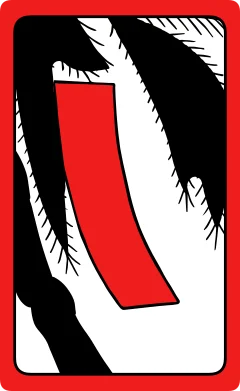
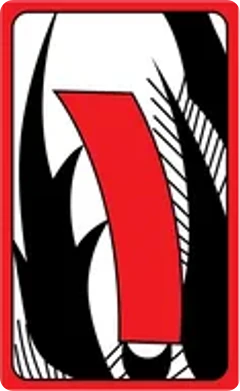
3·11·12월 카드를 제공받은 이미지로 교체: 48장 모두 제공 이미지로 통일, 출처 표기 정리
Claude-Session: https://claude.ai/code/session_01SkuqTjeNpSE6AdjrgMsGJu

diff --git a/src/App.jsx b/src/App.jsx
@@ -89,10 +89,8 @@ function Menu({ onStart }) {
         <p>• 모든 카드를 가져갔는데 {WIN_THRESHOLD}점 이상이 없으면 나가리(무승부)</p>
       </div>
       <p className="credits">
-        카드 그림: Spenĉjo,{' '}
-        <a href="https://commons.wikimedia.org/wiki/Category:SVG_Hwatu" target="_blank" rel="noreferrer">Wikimedia Commons</a>,{' '}
-        <a href="https://creativecommons.org/licenses/by-sa/4.0/deed.ko" target="_blank" rel="noreferrer">CC BY-SA 4.0</a>
-        {' '}(크기 변환 및 WebP로 변환)
+        카드 그림 출처:{' '}
+        <a href="https://namu.wiki/w/%ED%99%94%ED%88%AC/%ED%8C%A8" target="_blank" rel="noreferrer">나무위키 「화투/패」</a>
       </p>
     </div>
   );

diff --git a/src/assets/cards/CREDITS.md b/src/assets/cards/CREDITS.md
@@ -1,65 +1,59 @@
-# 카드 이미지 출처 및 라이선스
+# 카드 이미지 출처
 
-이 폴더의 카드 이미지는 Wikimedia Commons의 한국식 화투 SVG 세트를 변환한 것입니다.
+48장 모두 프로젝트 소유자가 나무위키 「화투/패」 문서(https://namu.wiki/w/%ED%99%94%ED%88%AC/%ED%8C%A8)에서 가져온 월별 합성 이미지를 카드 한 장씩 잘라 사용한 것입니다.
 
-- 작가: [Spenĉjo](https://commons.wikimedia.org/wiki/User:Spen%C4%89jo)
-- 원본: https://commons.wikimedia.org/wiki/Category:SVG_Hwatu
-- 라이선스: [CC BY-SA 4.0](https://creativecommons.org/licenses/by-sa/4.0/)
-- 변경 사항: 가로 240px 크기의 WebP로 변환(래스터화)했습니다. 일부 카드(아래 표시)는 원본 SVG를 받지 못해 같은 세트의 이미지에서 잘라 사용했습니다.
-- 이 이미지들은 원본과 같은 CC BY-SA 4.0 조건으로 제공됩니다. 코드와는 별개의 저작물입니다.
+- 변경 사항: 합성 이미지에서 카드를 잘라 모서리를 둥글게 처리하고, 가로 240px의 WebP로 변환했습니다.
+- 원 출처와 라이선스는 확인되지 않았습니다. 나무위키 문서 본문은 CC BY-NC-SA 2.0 KR이지만, 이미지는 파일별 라이선스를 따릅니다.
+- 그림은 Wikimedia Commons의 한국식 화투 세트(Spenĉjo, CC BY-SA 4.0, https://commons.wikimedia.org/wiki/Category:SVG_Hwatu)와 같은 작품으로 보이나 확정된 것은 아닙니다.
+- **공개 배포나 상업적 이용 전에 각 이미지의 파일 정보에서 출처와 라이선스를 확인하고, 필요하면 이 문서와 메뉴 화면의 표기를 갱신하세요.**
 
-
-> 알림: 아래 표에서 "(제공 이미지)"로 표시한 카드는 프로젝트 소유자가 나무위키 「화투/패」 문서(https://namu.wiki/w/%ED%99%94%ED%88%AC/%ED%8C%A8)에서 가져온 합성 이미지를 잘라낸 것입니다.
-> 그림은 위의 Wikimedia Commons 세트와 같은 작품으로 보이지만, 나무위키 이미지 각각의 원 출처와 라이선스는 확인되지 않았습니다.
-> (나무위키 문서 본문은 CC BY-NC-SA 2.0 KR이며, 이미지는 파일별 라이선스를 따릅니다.) 공개 배포 전에 각 이미지의 파일 정보를 확인해 이 문서를 갱신하세요.
-
-| 파일 | 원본 | 비고 |
-|---|---|---|
-| January_Hikari.webp | (제공 이미지) | 프로젝트 소유자가 제공한 이미지에서 잘라냄 |
-| January_Tanzaku.webp | (제공 이미지) | 프로젝트 소유자가 제공한 이미지에서 잘라냄 |
-| January_Kasu_1.webp | (제공 이미지) | 프로젝트 소유자가 제공한 이미지에서 잘라냄 |
-| January_Kasu_2.webp | (제공 이미지) | 프로젝트 소유자가 제공한 이미지에서 잘라냄 |
-| February_Tane.webp | (제공 이미지) | 프로젝트 소유자가 제공한 이미지에서 잘라냄 |
-| February_Tanzaku.webp | (제공 이미지) | 프로젝트 소유자가 제공한 이미지에서 잘라냄 |
-| February_Kasu_1.webp | (제공 이미지) | 프로젝트 소유자가 제공한 이미지에서 잘라냄 |
-| February_Kasu_2.webp | (제공 이미지) | 프로젝트 소유자가 제공한 이미지에서 잘라냄 |
-| March_Hikari.webp | https://commons.wikimedia.org/wiki/File:Hwatu_March_Hikari.svg | SVG 변환 |
-| March_Tanzaku.webp | https://commons.wikimedia.org/wiki/File:Hwatu_March_Tanzaku.svg | SVG 변환 |
-| March_Kasu_1.webp | https://commons.wikimedia.org/wiki/File:Hwatu_March_Kasu_1.svg | SVG 변환 |
-| March_Kasu_2.webp | https://commons.wikimedia.org/wiki/File:Hwatu_March_Kasu_2.svg | SVG 변환 |
-| April_Tane.webp | (제공 이미지) | 프로젝트 소유자가 제공한 이미지에서 잘라냄 |
-| April_Tanzaku.webp | (제공 이미지) | 프로젝트 소유자가 제공한 이미지에서 잘라냄 |
-| April_Kasu_1.webp | (제공 이미지) | 프로젝트 소유자가 제공한 이미지에서 잘라냄 |
-| April_Kasu_2.webp | (제공 이미지) | 프로젝트 소유자가 제공한 이미지에서 잘라냄 |
-| May_Tane.webp | (제공 이미지) | 프로젝트 소유자가 제공한 이미지에서 잘라냄 |
-| May_Tanzaku.webp | (제공 이미지) | 프로젝트 소유자가 제공한 이미지에서 잘라냄 |
-| May_Kasu_1.webp | (제공 이미지) | 프로젝트 소유자가 제공한 이미지에서 잘라냄 |
-| May_Kasu_2.webp | (제공 이미지) | 프로젝트 소유자가 제공한 이미지에서 잘라냄 |
-| June_Tane.webp | (제공 이미지) | 프로젝트 소유자가 제공한 이미지에서 잘라냄 |
-| June_Tanzaku.webp | (제공 이미지) | 프로젝트 소유자가 제공한 이미지에서 잘라냄 |
-| June_Kasu_1.webp | (제공 이미지) | 프로젝트 소유자가 제공한 이미지에서 잘라냄 |
-| June_Kasu_2.webp | (제공 이미지) | 프로젝트 소유자가 제공한 이미지에서 잘라냄 |
-| July_Tane.webp | (제공 이미지) | 프로젝트 소유자가 제공한 이미지에서 잘라냄 |
-| July_Tanzaku.webp | (제공 이미지) | 프로젝트 소유자가 제공한 이미지에서 잘라냄 |
-| July_Kasu_1.webp | (제공 이미지) | 프로젝트 소유자가 제공한 이미지에서 잘라냄 |
-| July_Kasu_2.webp | (제공 이미지) | 프로젝트 소유자가 제공한 이미지에서 잘라냄 |
-| August_Hikari.webp | (제공 이미지) | 프로젝트 소유자가 제공한 이미지에서 잘라냄 |
-| August_Tane.webp | (제공 이미지) | 프로젝트 소유자가 제공한 이미지에서 잘라냄 |
-| August_Kasu_1.webp | (제공 이미지) | 프로젝트 소유자가 제공한 이미지에서 잘라냄 |
-| August_Kasu_2.webp | (제공 이미지) | 프로젝트 소유자가 제공한 이미지에서 잘라냄 |
-| September_Tane.webp | (제공 이미지) | 프로젝트 소유자가 제공한 이미지에서 잘라냄 |
-| September_Tanzaku.webp | (제공 이미지) | 프로젝트 소유자가 제공한 이미지에서 잘라냄 |
-| September_Kasu_1.webp | (제공 이미지) | 프로젝트 소유자가 제공한 이미지에서 잘라냄 |
-| September_Kasu_2.webp | (제공 이미지) | 프로젝트 소유자가 제공한 이미지에서 잘라냄 |
-| October_Tane.webp | (제공 이미지) | 프로젝트 소유자가 제공한 이미지에서 잘라냄 |
-| October_Tanzaku.webp | (제공 이미지) | 프로젝트 소유자가 제공한 이미지에서 잘라냄 |
-| October_Kasu_1.webp | (제공 이미지) | 프로젝트 소유자가 제공한 이미지에서 잘라냄 |
-| October_Kasu_2.webp | (제공 이미지) | 프로젝트 소유자가 제공한 이미지에서 잘라냄 |
-| November_Hikari.webp | https://commons.wikimedia.org/wiki/File:Hwatu_November_Hikari.svg | SVG 변환 |
-| November_Kasu_1.webp | https://commons.wikimedia.org/wiki/File:Hwatu_November_Kasu_1.svg | SVG 변환 |
-| November_Kasu_2.webp | https://commons.wikimedia.org/wiki/File:Hwatu_November_Kasu_2.svg | SVG 변환 |
-| November_Kasu_3.webp | https://commons.wikimedia.org/wiki/File:Hwatu_November_Kasu_3.svg | SVG 변환 |
-| December_Hikari.webp | https://commons.wikimedia.org/wiki/File:Hwatu_December_Hikari.svg | SVG 변환 |
-| December_Tane.webp | https://commons.wikimedia.org/wiki/File:Hwatu_December_Tane.svg | SVG 변환 |
-| December_Tanzaku.webp | https://commons.wikimedia.org/wiki/File:Hwatu_December_Tanzaku.svg | SVG 변환 |
-| December_Kasu.webp | https://commons.wikimedia.org/wiki/File:Hwatu_December_Kasu.svg | SVG 변환 |
+| 파일 | 위치 |
+|---|---|
+| January_Hikari.webp | 「화투/패」 문서의 1월 이미지에서 잘라냄 |
+| January_Kasu_1.webp | 「화투/패」 문서의 1월 이미지에서 잘라냄 |
+| January_Kasu_2.webp | 「화투/패」 문서의 1월 이미지에서 잘라냄 |
+| January_Tanzaku.webp | 「화투/패」 문서의 1월 이미지에서 잘라냄 |
+| February_Kasu_1.webp | 「화투/패」 문서의 2월 이미지에서 잘라냄 |
+| February_Kasu_2.webp | 「화투/패」 문서의 2월 이미지에서 잘라냄 |
+| February_Tane.webp | 「화투/패」 문서의 2월 이미지에서 잘라냄 |
+| February_Tanzaku.webp | 「화투/패」 문서의 2월 이미지에서 잘라냄 |
+| March_Hikari.webp | 「화투/패」 문서의 3월 이미지에서 잘라냄 |
+| March_Kasu_1.webp | 「화투/패」 문서의 3월 이미지에서 잘라냄 |
+| March_Kasu_2.webp | 「화투/패」 문서의 3월 이미지에서 잘라냄 |
+| March_Tanzaku.webp | 「화투/패」 문서의 3월 이미지에서 잘라냄 |
+| April_Kasu_1.webp | 「화투/패」 문서의 4월 이미지에서 잘라냄 |
+| April_Kasu_2.webp | 「화투/패」 문서의 4월 이미지에서 잘라냄 |
+| April_Tane.webp | 「화투/패」 문서의 4월 이미지에서 잘라냄 |
+| April_Tanzaku.webp | 「화투/패」 문서의 4월 이미지에서 잘라냄 |
+| May_Kasu_1.webp | 「화투/패」 문서의 5월 이미지에서 잘라냄 |
+| May_Kasu_2.webp | 「화투/패」 문서의 5월 이미지에서 잘라냄 |
+| May_Tane.webp | 「화투/패」 문서의 5월 이미지에서 잘라냄 |
+| May_Tanzaku.webp | 「화투/패」 문서의 5월 이미지에서 잘라냄 |
+| June_Kasu_1.webp | 「화투/패」 문서의 6월 이미지에서 잘라냄 |
+| June_Kasu_2.webp | 「화투/패」 문서의 6월 이미지에서 잘라냄 |
+| June_Tane.webp | 「화투/패」 문서의 6월 이미지에서 잘라냄 |
+| June_Tanzaku.webp | 「화투/패」 문서의 6월 이미지에서 잘라냄 |
+| July_Kasu_1.webp | 「화투/패」 문서의 7월 이미지에서 잘라냄 |
+| July_Kasu_2.webp | 「화투/패」 문서의 7월 이미지에서 잘라냄 |
+| July_Tane.webp | 「화투/패」 문서의 7월 이미지에서 잘라냄 |
+| July_Tanzaku.webp | 「화투/패」 문서의 7월 이미지에서 잘라냄 |
+| August_Hikari.webp | 「화투/패」 문서의 8월 이미지에서 잘라냄 |
+| August_Kasu_1.webp | 「화투/패」 문서의 8월 이미지에서 잘라냄 |
+| August_Kasu_2.webp | 「화투/패」 문서의 8월 이미지에서 잘라냄 |
+| August_Tane.webp | 「화투/패」 문서의 8월 이미지에서 잘라냄 |
+| September_Kasu_1.webp | 「화투/패」 문서의 9월 이미지에서 잘라냄 |
+| September_Kasu_2.webp | 「화투/패」 문서의 9월 이미지에서 잘라냄 |
+| September_Tane.webp | 「화투/패」 문서의 9월 이미지에서 잘라냄 |
+| September_Tanzaku.webp | 「화투/패」 문서의 9월 이미지에서 잘라냄 |
+| October_Kasu_1.webp | 「화투/패」 문서의 10월 이미지에서 잘라냄 |
+| October_Kasu_2.webp | 「화투/패」 문서의 10월 이미지에서 잘라냄 |
+| October_Tane.webp | 「화투/패」 문서의 10월 이미지에서 잘라냄 |
+| October_Tanzaku.webp | 「화투/패」 문서의 10월 이미지에서 잘라냄 |
+| November_Hikari.webp | 「화투/패」 문서의 11월 이미지에서 잘라냄 |
+| November_Kasu_1.webp | 「화투/패」 문서의 11월 이미지에서 잘라냄 |
+| November_Kasu_2.webp | 「화투/패」 문서의 11월 이미지에서 잘라냄 |
+| November_Kasu_3.webp | 「화투/패」 문서의 11월 이미지에서 잘라냄 |
+| December_Hikari.webp | 「화투/패」 문서의 12월 이미지에서 잘라냄 |
+| December_Kasu.webp | 「화투/패」 문서의 12월 이미지에서 잘라냄 |
+| December_Tane.webp | 「화투/패」 문서의 12월 이미지에서 잘라냄 |
+| December_Tanzaku.webp | 「화투/패」 문서의 12월 이미지에서 잘라냄 |
